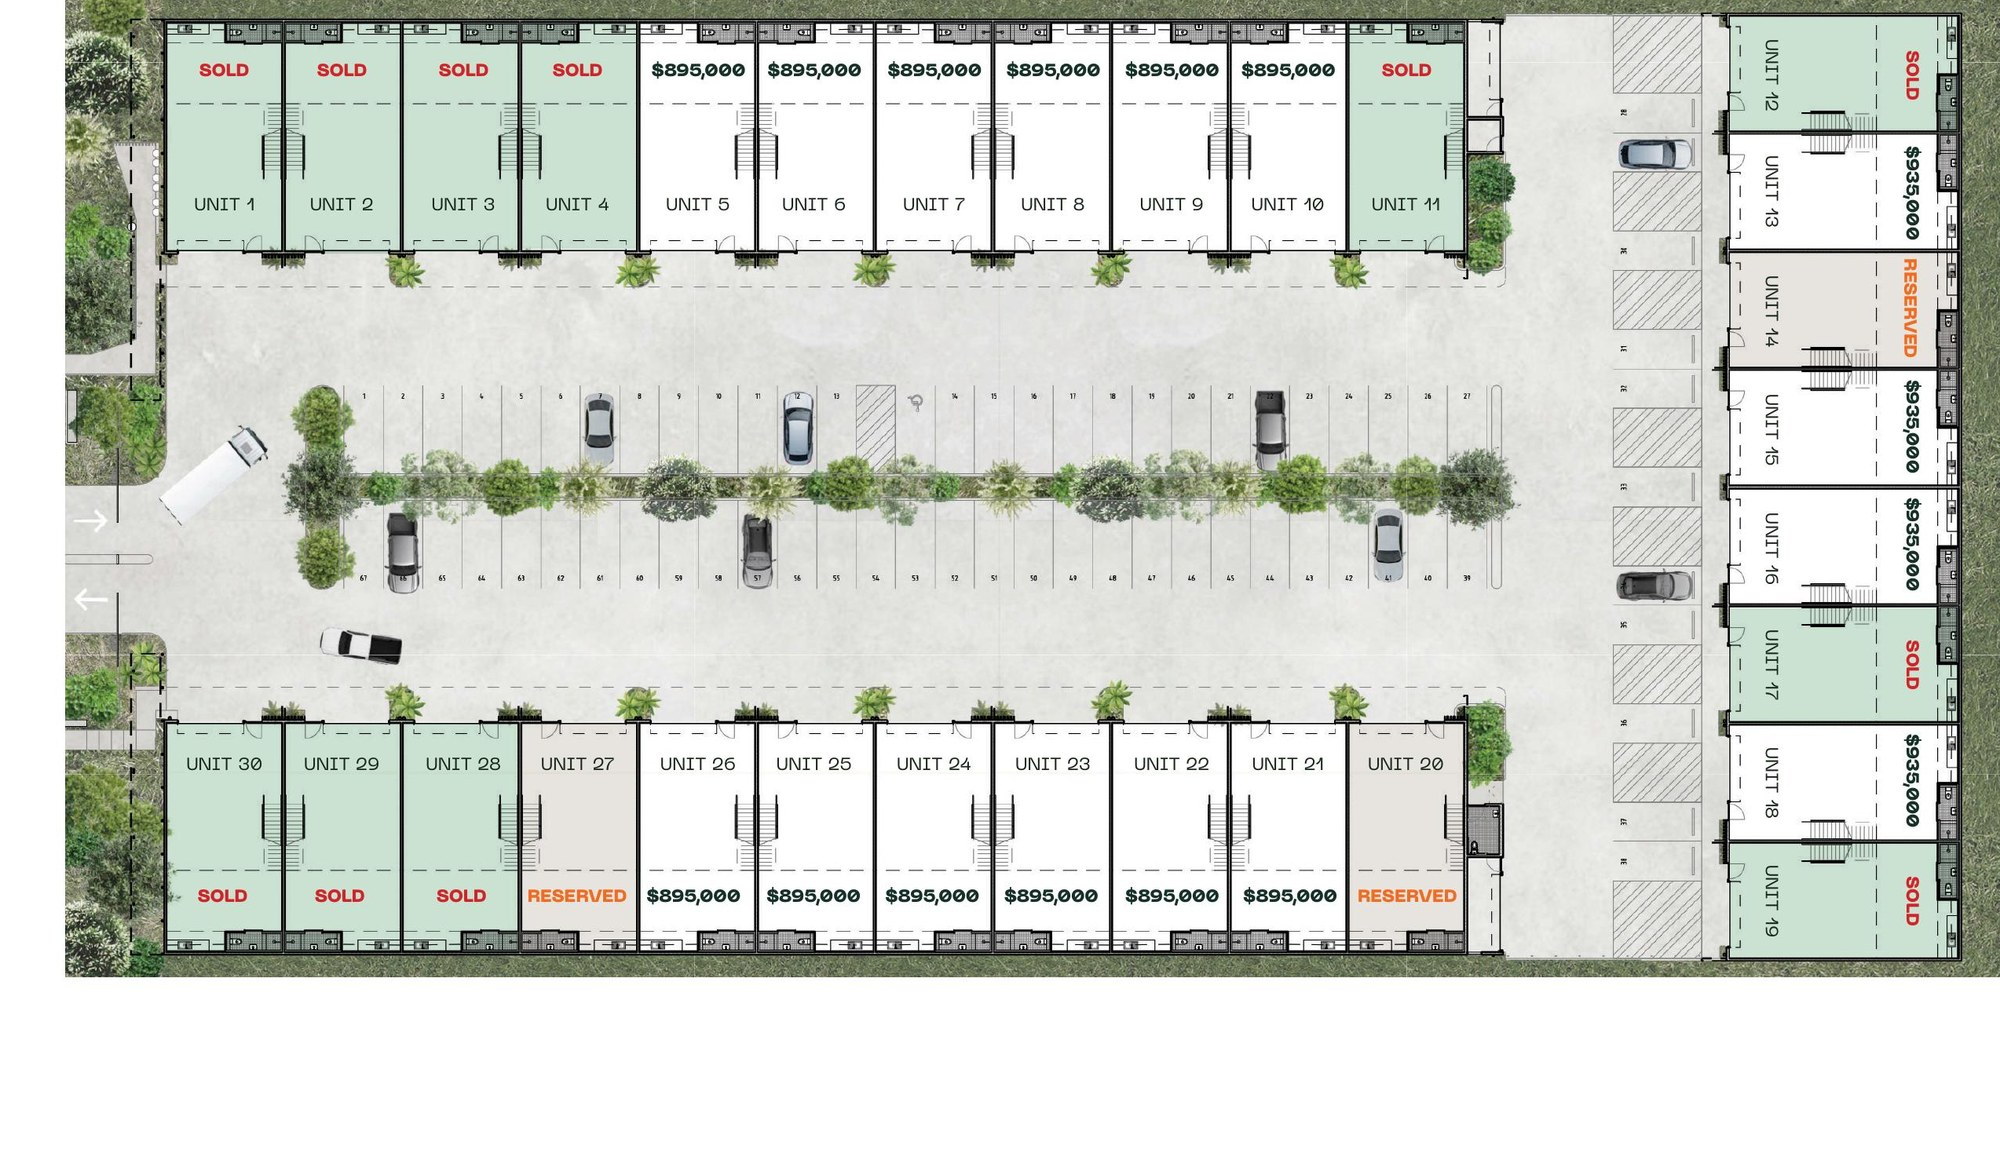
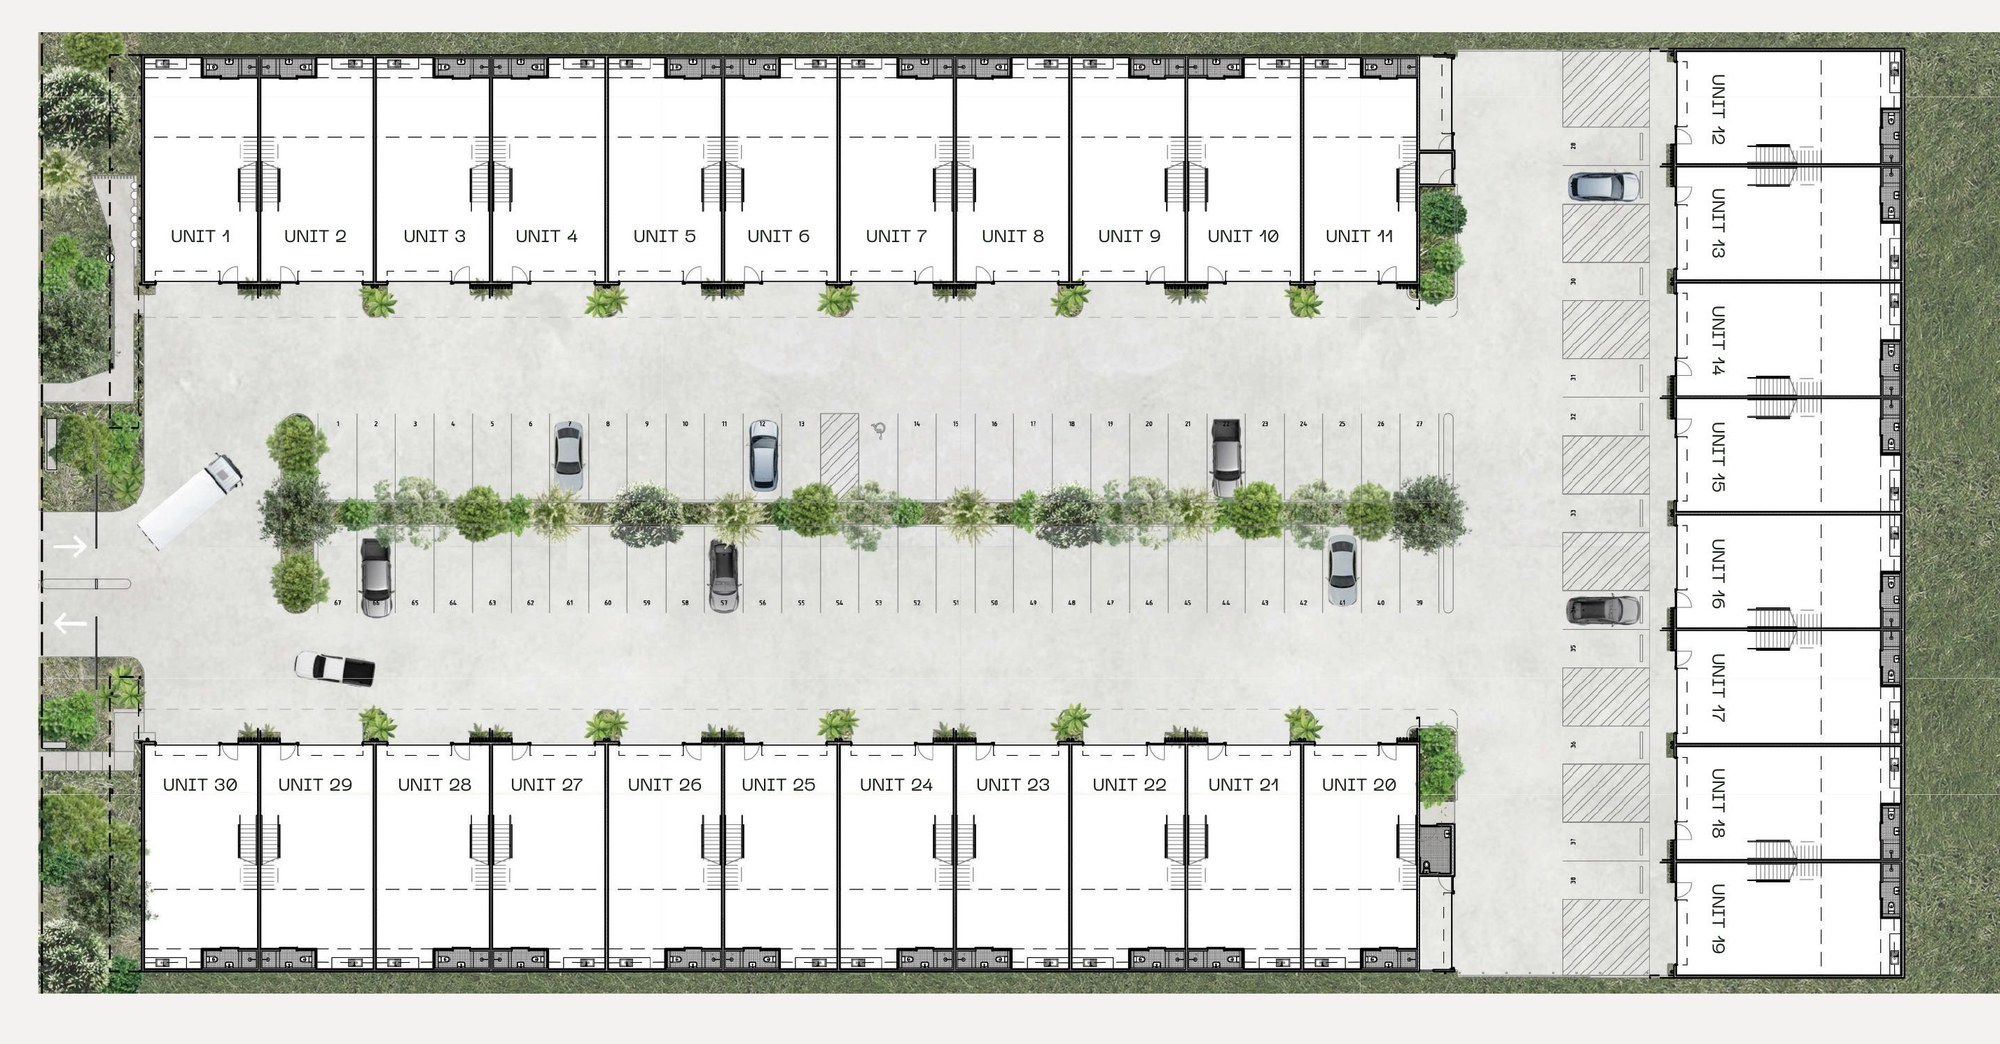
Master plan: use clean distribution-only site plan (no prices); remove price/status legend

diff --git a/index.html b/index.html
@@ -365,14 +365,9 @@
   <span class="lbl reveal d1">总平面图 · Availability</span>
   <h2 class="h2cn reveal d2">30 套单元 · 在售中</h2>
   <div class="rule reveal d3"></div>
-  <p class="body reveal d3">下图为 HeathWorks 总平面图。<strong>绿色单元</strong> 为在售 / 预留，价格区间 <strong>$875,000 – $935,000</strong>。以下精选 3 套仍在售的单元。</p>
+  <p class="body reveal d3">下图为 HeathWorks 总平面图，30 套单元沿两侧及端头分布，中央为访客车位与装卸车道。价格区间 <strong>$875,000 – $935,000</strong>，以下精选 3 套仍在售的单元。</p>
   <div class="sp-frame reveal d4"><img src="siteplan.jpg" alt="HeathWorks Site Plan"></div>
-  <div class="sp-legend reveal d4">
-    <div class="sp-leg"><span class="sw" style="background:#C7DCC7;"></span>在售 / 预留</div>
-    <div class="sp-leg"><span class="sw" style="background:#fff;"></span>可售 (含价格)</div>
-    <div class="sp-leg"><span class="sw" style="background:#C7DCC7;border-color:#B24A3B;"></span>已售 Sold</div>
-  </div>
-  <div class="sp-note reveal d4">双指放大查看单元细节</div>
+  <div class="sp-note reveal d4">双指放大查看单元分布</div>
 
   <!-- Unit 5 -->
   <div class="unit reveal d3">